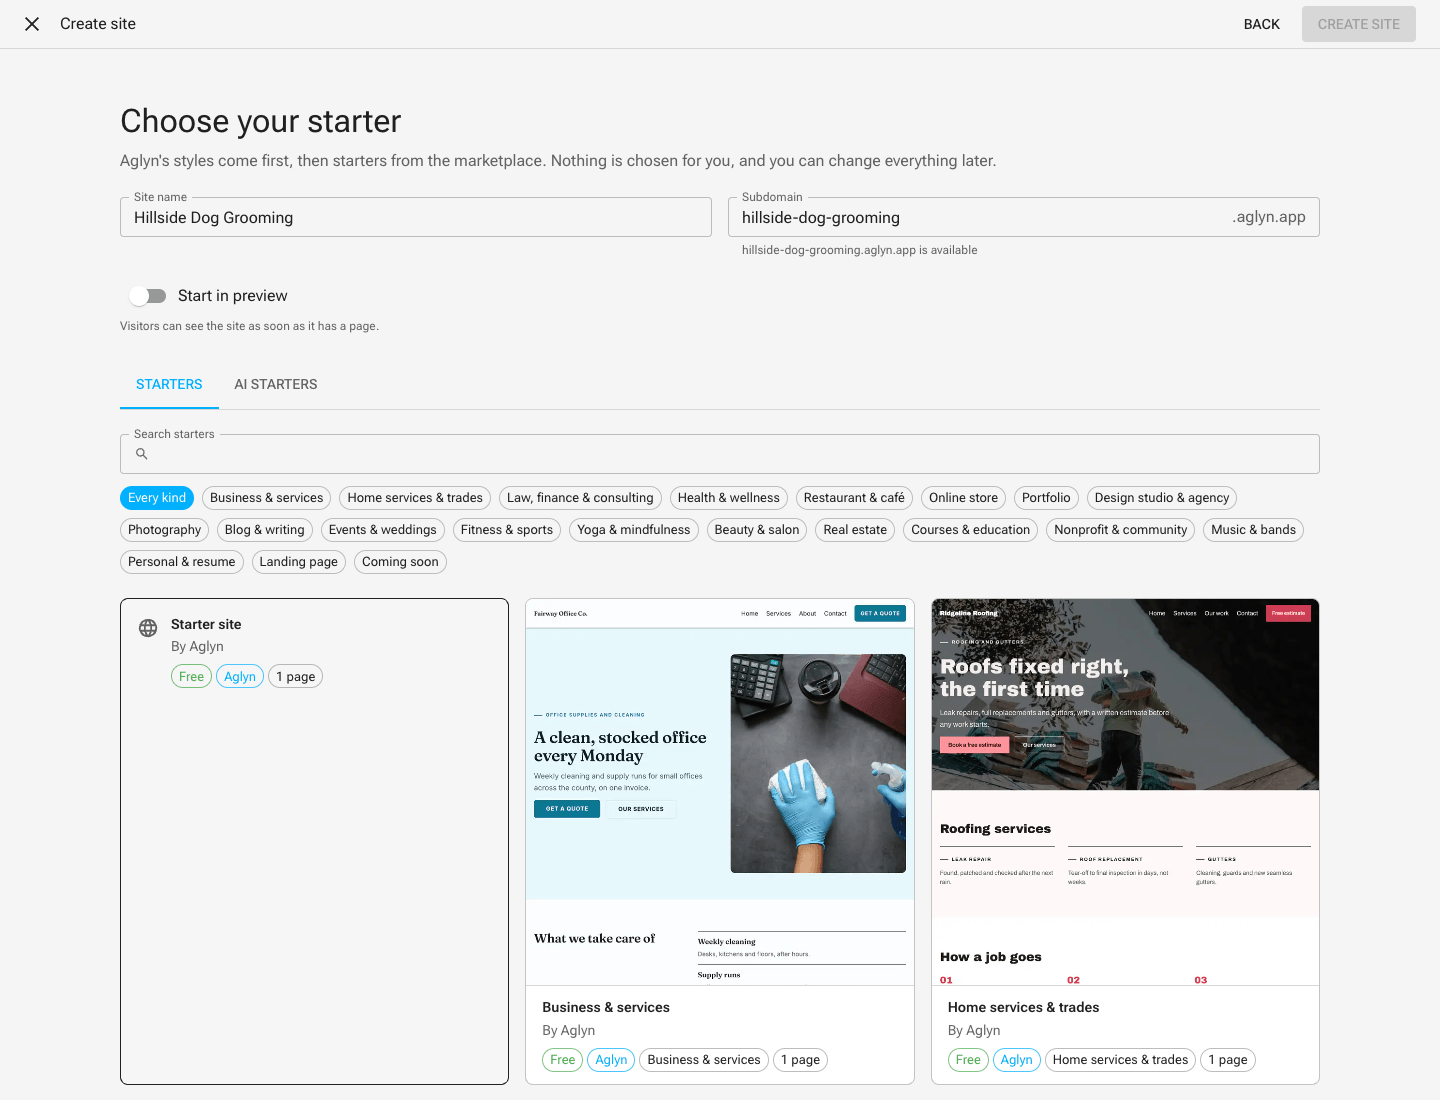
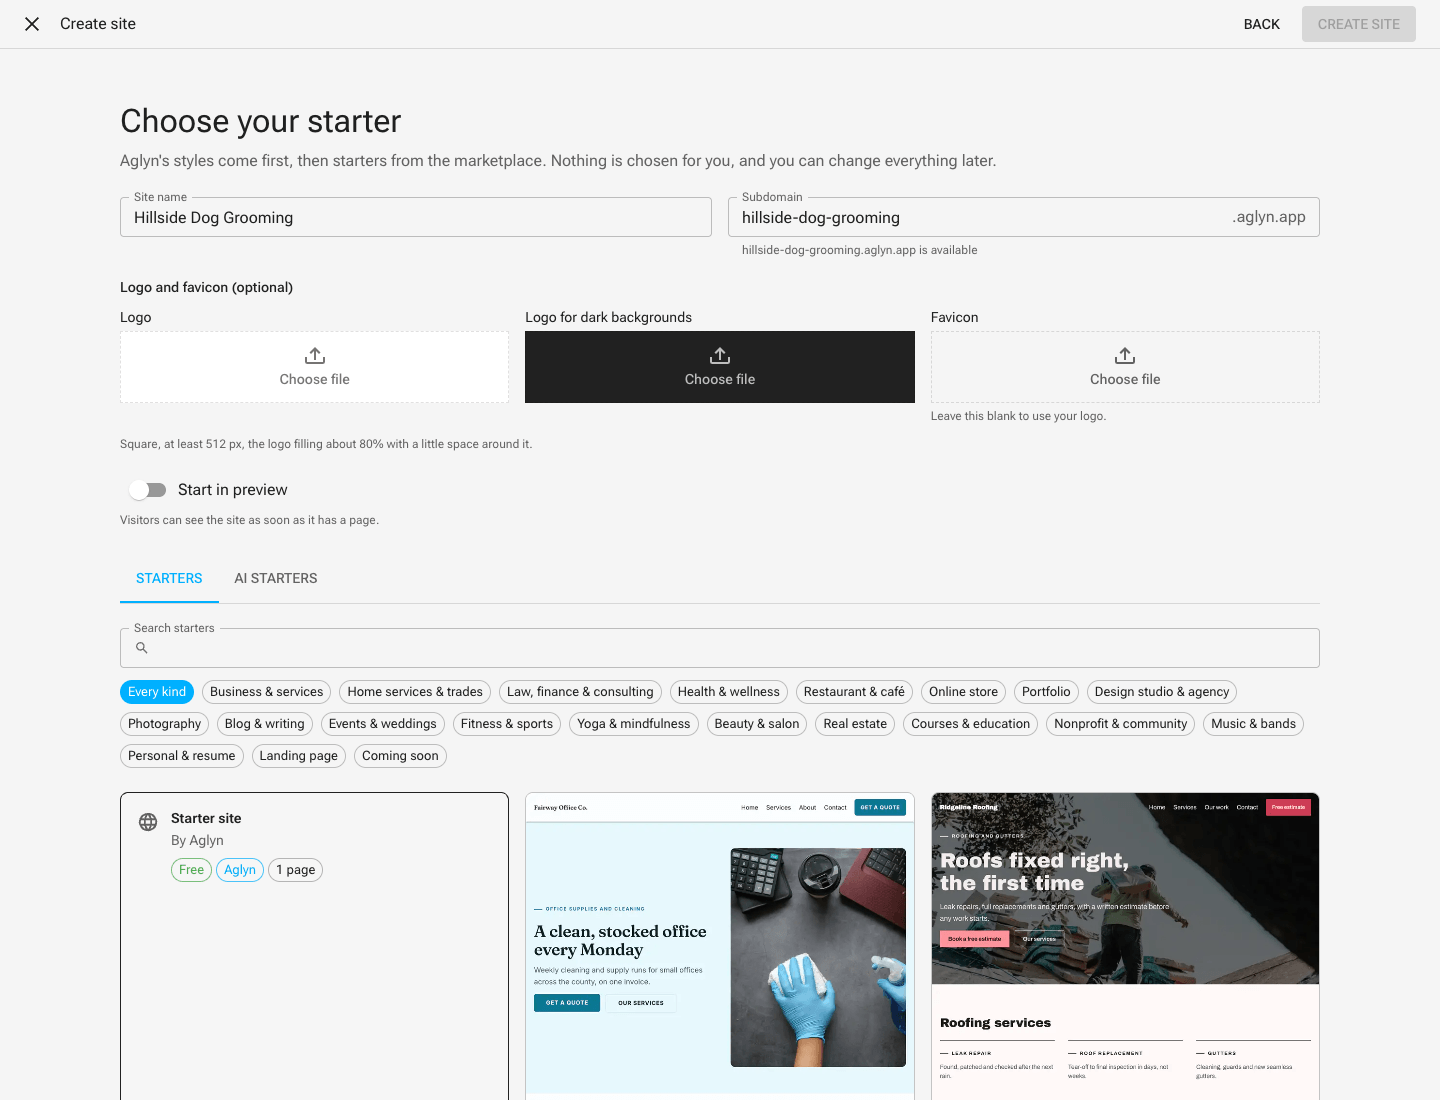
feat(console): the failure notice stays until it is read, and a docs shot of the fields (AGL-4119) [skip ci]
The notice is kept past the landing's Your site is live, and the shot is taken
on the seeded emulator with two new fixture logos. Choose your starter is
re-shot, since the fields now sit beside the name there too.

diff --git a/libs/besigner/feature/designer/src/lib/components/element-props-form.component.tsx b/libs/besigner/feature/designer/src/lib/components/element-props-form.component.tsx
@@ -1349,6 +1349,22 @@ export function browseMediaKind(options: {
 }
 
 /**
+ * Whether an element is offered the two visibility fields: inside a component
+ * editor, and wherever it already carries a directive, like the logo and name
+ * of a new site's header (AGL-4119), so what decides whether it shows can be
+ * read and changed where the element is edited.
+ */
+export function offersVisibilityFields(
+  nodeProps: Record<string, unknown> | null | undefined,
+  inComponentEditor: boolean,
+): boolean {
+  return (
+    inComponentEditor ||
+    Boolean(nodeProps?.[NODE_HIDE_IF_PROP] || nodeProps?.[NODE_HIDE_UNLESS_PROP])
+  )
+}
+
+/**
  * The two visibility fields every node inside a component definition gets
  * (AGL-1314), so "this part is optional" is something an author declares by
  * clicking rather than something the component hard-codes.
@@ -1358,11 +1374,12 @@ export function browseMediaKind(options: {
  * mockup"), `hideUnless` takes the prop that would have supplied the
  * content ("no link, no button" — AGL-1348).
  *
- * Offered ONLY where `{{prop.*}}` exists — inside a component editor,
- * signalled by `BindingPickerContext.componentProps` exactly as the insert
- * picker uses it. On an ordinary screen the directive is inert (the graft
- * is the only thing that evaluates it), and a field that silently does
- * nothing is worse than no field.
+ * Offered where `{{prop.*}}` exists — inside a component editor, signalled by
+ * `BindingPickerContext.componentProps` exactly as the insert picker uses it —
+ * and on an element that already carries one ({@link offersVisibilityFields}).
+ * Anywhere else a directive is inert (the graft is the only thing that
+ * evaluates a literal one), and a field that silently does nothing is worse
+ * than no field.
  */
 export function buildVisibilityFields(
   tokenOptions?: unknown,
@@ -2376,20 +2393,18 @@ const ElementPropsFormRaw = forwardRef<any, ElementPropsFormProps>(
       ],
     )
 
-    // Visibility directives (AGL-1314), inside a component editor — and on
-    // an element that already carries one, like the logo and name of a new
-    // site's header (AGL-4119), so what decides whether it shows can be read
-    // and changed there. `componentProps` is the same "am I editing a
-    // definition" signal the insert picker keys `{{prop.*}}` off.
-    const carriesVisibility = Boolean(
-      nodeProps?.[NODE_HIDE_IF_PROP] || nodeProps?.[NODE_HIDE_UNLESS_PROP],
+    // Visibility directives (AGL-1314). `componentProps` is the same "am I
+    // editing a definition" signal the insert picker keys `{{prop.*}}` off.
+    const offersVisibility = offersVisibilityFields(
+      nodeProps as Record<string, unknown> | undefined,
+      Boolean(editedComponentProps),
     )
     const visibilityFields = useMemo(
       () =>
-        editedComponentProps || carriesVisibility
+        offersVisibility
           ? buildVisibilityFields(insertOptions, tokenLabelContext)
           : [],
-      [carriesVisibility, editedComponentProps, insertOptions, tokenLabelContext],
+      [offersVisibility, insertOptions, tokenLabelContext],
     )
 
     // Element animation (AGL-2486). Static, so it is built once rather than

diff --git a/libs/besigner/feature/designer/src/lib/components/element-props-form.component.spec.tsx b/libs/besigner/feature/designer/src/lib/components/element-props-form.component.spec.tsx
@@ -33,6 +33,7 @@ import {
   buildAnimationFields,
   buildInstancePropFields,
   buildVisibilityFields,
+  offersVisibilityFields,
   elementPropsComponentMapper,
   inheritedAltPatch,
   isFormattedText,
@@ -358,6 +359,19 @@ describe('buildInstancePropFields (AGL-1247)', () => {
 // Making part of a component optional (AGL-1314). The contract that matters
 // is the same one AGL-1247 has: the field NAME must be the prop key the
 // graft evaluates, or the toggle saves somewhere nothing reads.
+describe('offersVisibilityFields (AGL-4119)', () => {
+  it('offers them inside a component editor, and on no ordinary element elsewhere', () => {
+    expect(offersVisibilityFields({}, true)).toBe(true)
+    expect(offersVisibilityFields({ children: 'Hi' }, false)).toBe(false)
+    expect(offersVisibilityFields(undefined, false)).toBe(false)
+  })
+
+  it('offers them on an element that already carries one, wherever it is', () => {
+    expect(offersVisibilityFields({ hideIf: '{{host.logo}}' }, false)).toBe(true)
+    expect(offersVisibilityFields({ hideUnless: '{{host.logo}}' }, false)).toBe(true)
+  })
+})
+
 describe('buildVisibilityFields (AGL-1314)', () => {
   it('names each field for the directive the graft evaluates', () => {
     const fields = buildVisibilityFields()

diff --git a/libs/shared/ui/jsx/src/lib/components/image-file-field.component.tsx b/libs/shared/ui/jsx/src/lib/components/image-file-field.component.tsx
@@ -77,7 +77,8 @@ function useFilePreview(file: File | null): string | null {
  * Pick one image, see it, and take it away again (AGL-4119). A compact tile on
  * {@link FileDropZone}, for a form that holds a file until there is somewhere
  * to put it. It hands back the file and nothing else: what a form accepts,
- * what it refuses and where the file goes are the form's.
+ * what it refuses and where the file goes are the form's. Figma: "Create site /
+ * Image file field" in Aglyn Console (web), page Sites · Create site.
  */
 export function ImageFileField(props: ImageFileFieldProps) {
   const { label, file, onChange, accept, onRejected, ground, helperText, error, disabled, sx } = props

diff --git a/apps/console/components/create-host-dialog.component.tsx b/apps/console/components/create-host-dialog.component.tsx
@@ -462,7 +462,8 @@ function CreateSiteFlow({
           const { missed } = await brand.save(site.hostId)
           brandMissed.current = missed
           const notice = siteBrandMissedNotice(missed)
-          if (notice) enqueueSnackbar(notice, { variant: 'warning', allowDuplicate: true })
+          // Kept until it is read: the landing draws "Your site is live" over it.
+          if (notice) enqueueSnackbar(notice, { variant: 'warning', persist: true, allowDuplicate: true })
           return { site, ...(starterName ? { starterName } : {}) }
         } catch (error) {
           console.error(error)

diff --git a/apps/console/specs/create-site-asks-before-it-creates.spec.tsx b/apps/console/specs/create-site-asks-before-it-creates.spec.tsx
@@ -1133,9 +1133,10 @@ describe('AGL-4119 · a logo, a dark logo and a favicon, in every create', () =>
     expect(createCalls()).toHaveLength(1)
     expect(mockPush).toHaveBeenCalledTimes(1)
     expect(calls('/api/hosts/sync-memberships')).toHaveLength(0)
+    // Kept until it is read: "Your site is live" draws over the landing.
     expect(mockSnackbar).toHaveBeenCalledWith(
       'Your site is ready, but your logo didn’t upload. Add it in Site settings.',
-      expect.objectContaining({ variant: 'warning' }),
+      expect.objectContaining({ variant: 'warning', persist: true }),
     )
   })
 

diff --git a/apps/console/components/host-first-run-gate.component.tsx b/apps/console/components/host-first-run-gate.component.tsx
@@ -105,7 +105,7 @@ function SiteBrandMissedLanding({ named }: { named: string }) {
     if (said.current) return
     said.current = true
     const notice = siteBrandMissedNotice(readSiteBrandMissed(named))
-    if (notice) enqueueSnackbar(notice, { variant: 'warning', allowDuplicate: true })
+    if (notice) enqueueSnackbar(notice, { variant: 'warning', persist: true, allowDuplicate: true })
     const rest = new URLSearchParams(searchParams?.toString() ?? '')
     rest.delete(SITE_BRAND_MISSED_PARAM)
     if (pathname) router.replace(rest.size ? `${pathname}?${rest.toString()}` : pathname)

diff --git a/apps/docs/docs/getting-started/create-a-site.md b/apps/docs/docs/getting-started/create-a-site.md
@@ -106,7 +106,7 @@ start begins, so the AI uses your logo too. If one can't be uploaded, your site 
 created, and Aglyn tells you which file didn't make it. Add it under **Setup**: the logos
 are in **Basic details → Site logo**, and the favicon is in **SEO → Favicon**.
 
-![Create a new site: the name and subdomain fields, then Logo and favicon with a logo chosen and a logo for dark backgrounds chosen, each previewed on the background it will be seen on, and Favicon empty with Leave this blank to use your logo, then Choose a style](/img/getting-started/create-site-logo.png)
+![Start your site: the site name and subdomain, then Logo and favicon with a logo and a logo for dark backgrounds chosen, each previewed on the background it will be seen on with Remove beside it, and Favicon empty with Leave this blank to use your logo](/img/getting-started/create-site-logo.png)
 
 The header and footer that show your logo are the starter's. To change how the logo sits
 in them, open the layout under **Layouts**: each logo is an ordinary **Image** element.
